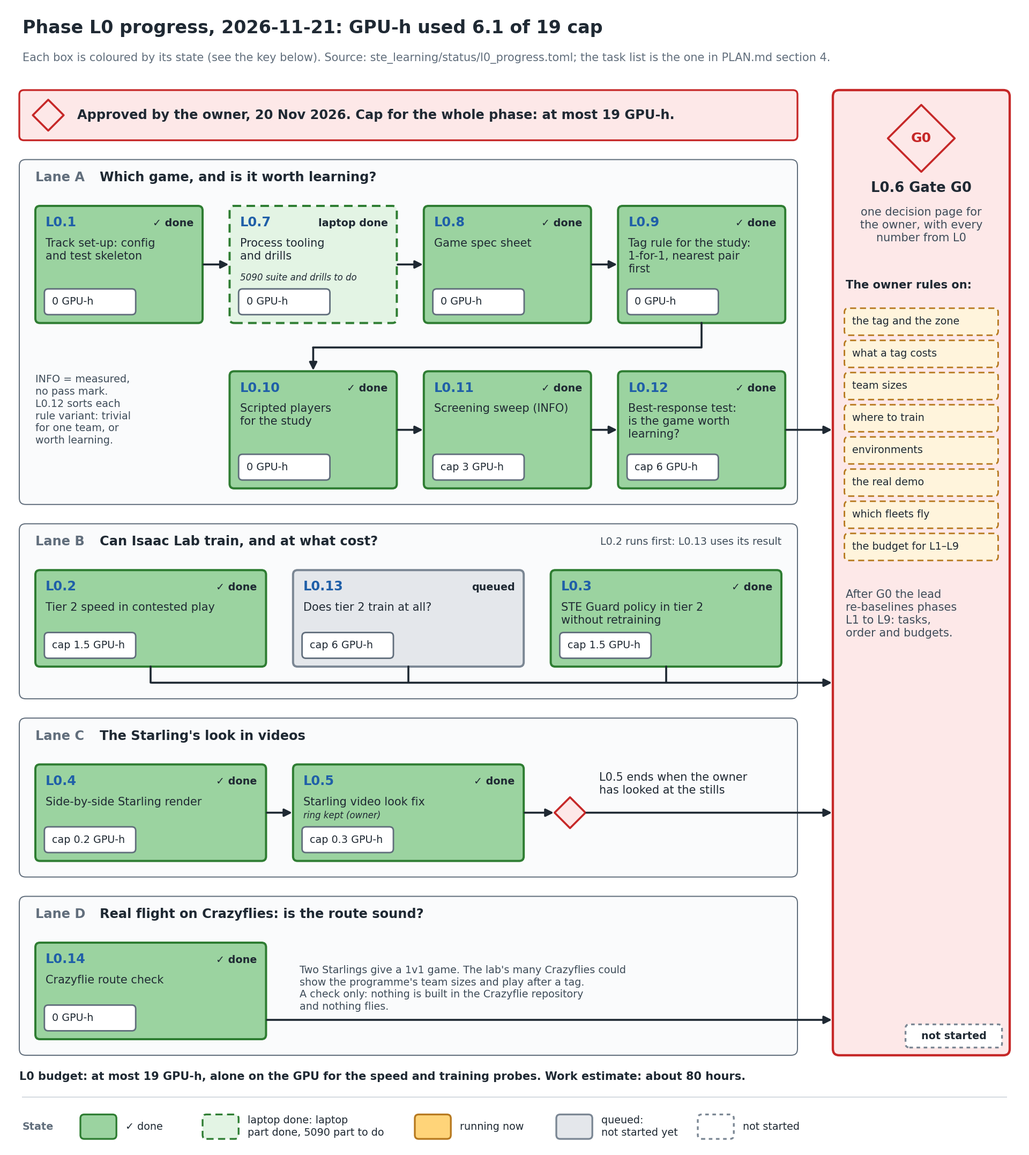
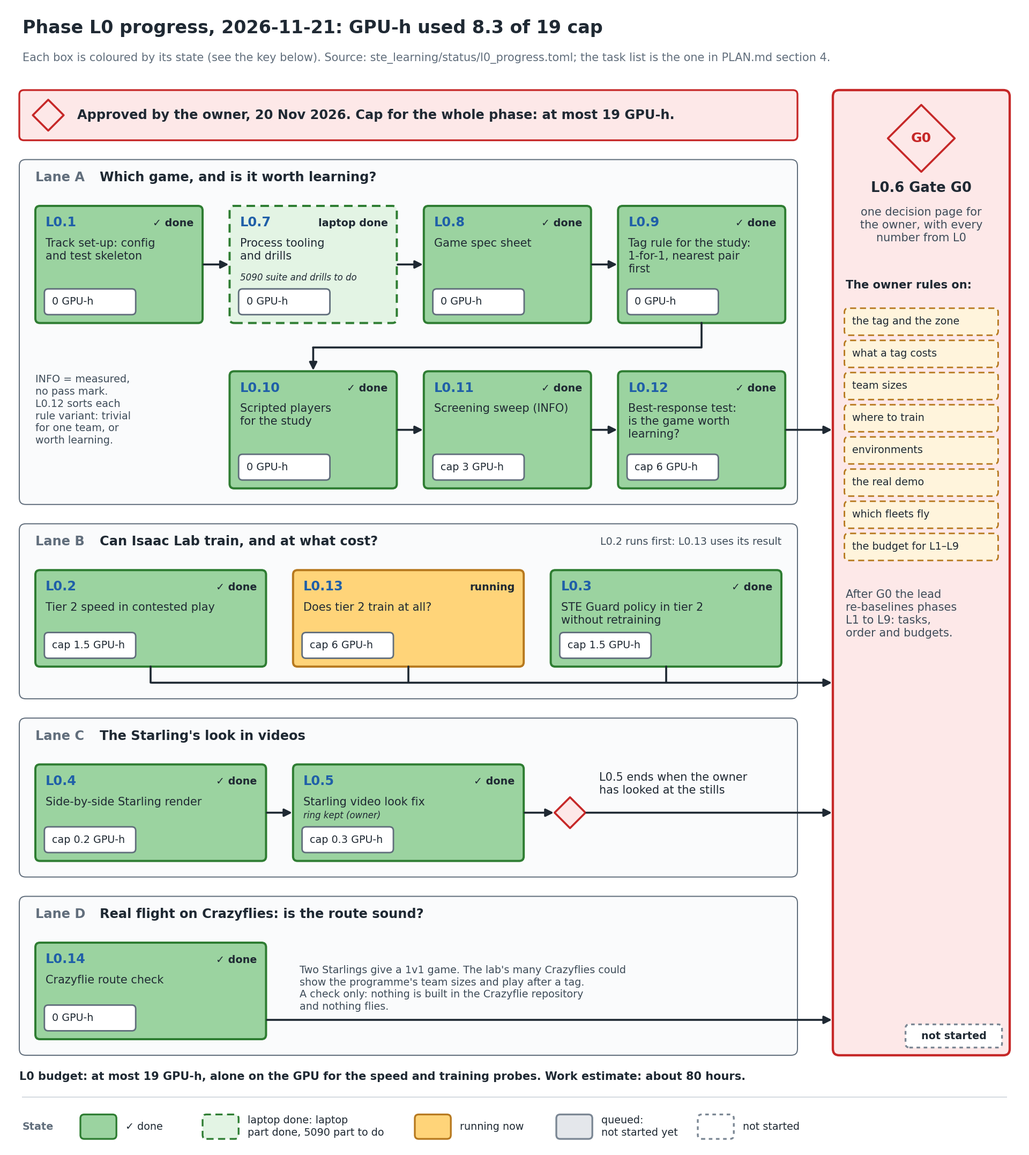
svg_training status: bubble-tag test done; L0.13 runs of record started

Changed region(s): [[0.2812, 0.4666, 0.5312, 0.591]]

diff --git a/svg_training/ste_learning/status/LOG.md b/svg_training/ste_learning/status/LOG.md
@@ -10197,3 +10197,166 @@ Laptop drills (21 Nov, fix branch, shared folder `~/AirStack-starling-max2/svg_t
 **Waiting on you.** One question (not urgent, by Sunday): **re-run the 1.15 m Strike run with a longer time cap?** It needs run 0 again at the same cap: about 1.1 GPU-h more, beyond the ~1.3 you approved (the test has used ~1.9 by tonight). My recommendation: **no** — the Strike reach rate was flat at ~11–13 % for the last 45 updates, the same waiting-out-the-clock play as at 1.2 m, so two more updates would not change the reading; G0 can use the ABORTED run as information. At G0: tag rule, varied tag distance, tag cost, zone size, team sizes, where to train, the real demo, the physical-intercept study, the L1–L9 budget.
 
 **Correction.** The 21 Nov question on NUS values listed "speeds 0.6 / 1.2". The L0.8 review reads those two numbers as the decision period (0.6 s) and the flight height (1.2 m); the speeds are 0.5 and 0.333 m/s. Your Yes covers all of them as written on the sheet.
+
+## 2026-11-21 17:29
+
+**Status, 2026-11-21 17:30 (+08:00), 30-minute update: bubble-tag runs done (1.15 m behaves like 1.2 m); L0.13 runs of record started** · laptop RTX 5070 Ti · GPU: L0.13 t1 · 1 job
+
+**Plain summary (L0.12b bubble tag, 1.15 m).** Tested: is "touch the safety bubble" (tag at 1.15 m) a game worth learning?
+Happened (training simulator): the scripts alone make it a two-sided game (best Guard holds 645, best Strike reaches 355,
+the same as 1.2 m), and almost every tag is chosen by the players, not made by the filter (0–10 %); but training did not beat
+the scripts — the trained Guard held 466 v 645, and the trained Strikes hid until the clock ran out (run ABORTED by its time
+rule, information only). Why it matters: across 1.6 / 1.4 / 1.2 / 1.15 m, training beats the scripts only at 1.4 m and wider —
+1.4 m is the closest tag where learning clearly pays off (input to your G0 tag decision).
+
+**Your decisions today (recorded):** D9 ring kept as the team marker; no re-run of the tag 1.2 m Strike run; **test the
+"touch the safety bubble" tag at 1.15 m** (about 1.3 GPU-h beyond L0.12's 6, approved); real demo = proximity tag, physical
+interdiction shown in simulation (a proposal for G0).
+
+### Watch (latest clips and figures)
+
+**L0.12 — can a trained team beat the best hand-written one?** Filled dot = trained, hollow = best script, x = untrained:
+
+![](../../docs/figures/ste_l012/best_response.png)
+
+| Trained Strikes v the best scripted Guard (base): climb, trade two, the last one slips in | Trained Guards v the straight Strike (base) |
+|---|---|
+| ![](../../docs/media/ste_l012/base_trained_strike_game0_reach.gif) | ![](../../docs/media/ste_l012/base_trained_guard_game0_hold.gif) |
+
+**L0.3 — the fast-engine Guard (T41) on the Isaac Lab drone, no retraining** (856 v 831 holds; reaches for the parked control):
+
+![](../../docs/figures/ste_l03/transfer.png)
+
+**L0.2 — training speed, Isaac Lab v the fast engine:**
+
+![](../../docs/figures/ste_l02/speed.png)
+
+**The 3-D videos** (L0.11 games, Isaac Lab, ring = team): [base_reach_3d.gif](../../docs/media/ste_l011/3d/base_reach_3d.gif), [all](../../docs/media/ste_l011/3d/README.md).
+
+Where phase L0 is: green done, light green laptop part done, amber running, grey queued (state file
+`ste_learning/status/l0_progress.toml`, figure by `scripts/make_ste_learning_figures.py l0_progress`).
+
+![](../figures/l0_progress.png)
+
+Earlier: L0.11 top-down clips and the factor chart are in the [T44 record](../../records/2026-11-21_ste_l011_screen_record.md).
+
+### Phases
+
+| Phase | Status | Math library | Simulator | What |
+|---|---|---|---|---|
+| NUS port Phases 1–4 | DONE | JAX (NUS), PyTorch | NUS 2-D game (JAX), Copy of NUS 2-D game (PyTorch), tier 2 Isaac Lab | NUS's code installed, game and policies copied to PyTorch, six tests towards STE drones |
+| NUS port Phase 5 | PAUSED (lead call D8) | PyTorch | Copy of NUS 2-D game (PyTorch), tier 1 fast engine | 5.1 Method match FAIL (T43); STE Guard policy 829 of 1,000 (T41) |
+| NUS port Phase 6 | DONE | none | none | public documents with videos |
+| ▶ L0 Game definition and feasibility | RUNNING (approved 20 Nov, cap 19 GPU-h) | PyTorch | tier 1 fast engine, tier 2 Isaac Lab | which game, worth learning, can tier 2 train, is the Crazyflie route sound |
+| L1–L8 | NOT STARTED | PyTorch | as ruled at gate G0 | drone model, rules, learner, evaluation, league, export, AirStack side, real flight |
+| L9 Documentation | RUNNING | none | none | status, records, results page |
+
+### Phase L0 Game definition and feasibility, task by task
+
+| ID | Plain name | Status | Simulator | Result / ETA |
+|---|---|---|---|---|
+| L0.1 | Track set-up: config and test skeleton | DONE | none | settings file, loader, tests; independent QC closed all findings |
+| L0.7 | Process tooling and drills | RUNNING (laptop part DONE) | none | merged into `development`; laptop: full suite 1,420 passed / 0 failed, wake-up drill and resume drill both as expected (below); DONE when the 5090 has run the same (L07-5090) |
+| L0.8 | Game spec sheet | DONE | none | merged into `development`; QC passed; full suite on `development` 1,461 passed / 0 failed (41 min) |
+| L0.9 | Tag rule for the study: 1-for-1, nearest pair first | DONE | tier 1 fast engine | merged; QC + re-check passed; full suite on `development` 1,517 passed / 0 failed (31 min); the 5090 records its own tag-off positions (L09-5090) |
+| L0.10 | Scripted players for the study | DONE | tier 1 fast engine | merged; QC + 2 re-checks passed; full suite on `development` 1,600 passed / 0 failed (56 min, CPU shared with the L0.11 GPU jobs) |
+| L0.11 | Screening sweep (INFO) | DONE | tier 1 fast engine | record T44 (every control PASS; shortlist base (reference), tag 1.2 m, tag 1.4 m; every hold a one-for-one trade) + follow-up checks; merged into `development`; full suite 1,685 passed / 0 failed (27 min) |
+| L0.12 | Best-response test: is the game worth learning? | DONE, merged (T46 INFO, T47 ABORTED; full suite 1,838 passed, its 6 failures fixed before merge) | tier 1 fast engine | pilot PASS; run 0 PASS; **base: worth learning** (Guard 913 v 808, Strike 636 v 192); **tag 1.4 m: worth learning** (Guard 747 v 672, Strike 740 v 328); **tag 1.2 m: incomplete** (Guard 503 v script 645; Strike ABORTED, 87/88 updates, trained Strikes wait out the clock); every control PASS; 3.86 GPU-h of 6; record T46 (verdict) + T47 (aborted run) being written; 3-D clips of the key games need VID-1b (the 3-D tool replays scripted players only) |
+| L0.2 | Tier 2 speed in contested play | DONE (T48, merged) | tier 2 Isaac Lab | every control PASS; Isaac Lab 3v3: 10 k → 67 k training game-steps/s (1,024 → 16,384 games, 4.7 GB); the fast engine is 4–10× faster per game-step (5× at 3v3); 0.29 GPU-h (+0.10 smokes) |
+| L0.13 | Does tier 2 train at all? | RUNNING (runs of record) | tier 2 Isaac Lab | smoke: every control PASS; physics check at 16,384 games 0.0166 m (limit 0.02); Isaac Lab 70 k game-steps/s, time margin +2,811 s; now the fast-engine arm (update 20 of 48; its curve reads climbing 145 → 176 of 256 holds), then the Isaac Lab arm (~1.3 h); verdict ~19:30 |
+| L0.3 | STE Guard policy in tier 2 without retraining | DONE (T49, merged) | tier 2 Isaac Lab | every control PASS; T41 holds 856/1000 on Isaac Lab v 831 fast engine (paired: 76 gained, 51 lost, sign test p = 0.033; higher in this set, no general claim); 1.24 GPU-h |
+| L0.4 | Side-by-side Starling render | DONE | tier 2 Isaac Lab | found why our clips never looked like the Starling: a grey physics box was drawn over every drone since S2b (the hide call missed it); one-line fix, re-render shows the Starling (before/after in Watch); merged into `development` after independent review; 0.028 of 0.2 GPU-h |
+| L0.5 | Starling video look fix | WAITING ON YOU (D9) | tier 2 Isaac Lab | the drone left unpainted, team shown by a ring or a small dot that casts no shadow; stills in Watch; 0.154 of 0.3 GPU-h (with VID-1) |
+| L0.14 | Crazyflie route check | DONE | tier 1 fast engine (CPU) | record T45: the T41 Guard policy holds 791–768 of 1,000 in the Crazyflie-like lag band (0.48–0.56 s, every drone slowed) against 831 at the Starling's lag, and drones come closer (games under 1.0 m: 7 → 101–149); planner, like for like: 0 of 100 at 3v3 and 5v3 against 20 Nov's 5 of 100 (not a clear difference; only one rule set run); QC + re-check passed; merged into `development` (targeted tests 76 passed; the full suite runs with the next merge — lead's call, the CPU is shared now); page `ste_learning/CRAZYFLIE_ROUTE.md` |
+| L0.6 | Gate G0 | NOT STARTED | none | after every task above; the owner decides |
+
+GPU-h used in L0 so far: about 8.3 of 19 (L0.11 0.43, L0.4 0.03, L0.5 + VID-1 0.15, L0.2 0.39, L0.3 1.28, L0.12 3.86, L0.12b 1.95, L0.13 smoke 0.06); L0.13 runs in progress (~2 more).
+
+Laptop full CPU suite (20 Nov, `development` at 5c5d465, after `scripts/nus_install_provisional.sh`): **1,333 passed, 2 failed, 48 skipped** in 24 min. Both failures repeat when run alone:
+- **L07-F1** `test_ste_job.py::test_f_d_a_killed_job…resumes`: CONFIRMED by QC: the tool does not over-report (it measures from the same start; ~0.255 s raw, printed rounded to 0.3); the test compares the rounded text with the exact elapsed time. Fix: allow half a display step.
+- **TEST-F2** `test_train_standin.py::test_default_path_bit_identical_after_the_nus_hooks`: FIXED (447b317). Measured on the laptop: the hash repeats (75d2a955…), hold rates equal the recorded [0.25, 0.375], and forcing PyTorch's CPU capability down changes the hash; threads (trainer runs one) and local files (not read on this path) ruled out. The fingerprint is now one hash per CPU capability; hold rates are checked on every machine.
+
+### Usage (laptop session, 20 Nov 22:00 to now)
+
+| What | Agent tokens | Wall time | Note |
+|---|---|---|---|
+| L0.7 fixes: builder, 7 fixes one at a time | ~400 k | ~51 min | the largest: each fix re-reads the tooling and its tests |
+| L0.8 Game spec sheet: builder, build + 2 fix rounds | ~320 k | ~50 min | includes its own 25-min full suite |
+| L0.7 independent QC + re-check | ~246 k | ~18 min | reproduced C1 and I1 in a scratch folder |
+| L0.8 independent QC + re-check | ~209 k | ~12 min | mutation tests on the sheet |
+| L0.9 Tag rule: builder (build + fix round) | ~358 k | ~66 min | the first 50 min slowed by sharing the CPU with the L0.7 suite |
+| L0.9 independent QC + re-check | ~239 k | ~31 min | ran its own reference matcher, mutants and old-vs-new games |
+| L0.10 Scripted players: builder (build + rulings + 2 QC fix rounds) | ~420 k | ~56 min | |
+| L0.10 independent QC (+ 2 re-checks) | ~353 k | ~71 min | 84 deliberate breakages over two rounds; its own geometry probes on 30,000+ starts |
+| L0.11 sweep build (CPU, build + rulings + rebase + QC fixes + follow-ups) | ~677 k | ~106 min | the largest single task so far; a fresh builder takes L0.12 to avoid re-reading this context |
+| L0.12 groundwork builder | ~550 k | ~54 min | |
+| L0.12 pre-launch QC | ~322 k | ~48 min | 19 deliberate breakages, 8 not caught before the fixes |
+| L0.14 builder | ~368 k | ~118 min | the Crazyflie planner sweep ran on the CPU (2,868 matches) |
+| L0.11 pre-launch QC | ~293 k | ~24 min | broke the code five ways through the real driver |
+| L0.11 CUDA smoke | | ~5 min | 0.087 GPU-h |
+| L0.11 independent QC (pre-launch, re-check, results read) | ~419 k | ~45 min | |
+| L0.11 sweep | | 18 min | 0.305 GPU-h (L0.11 total 0.426 of 3.0) |
+| L0.4 + L0.5 + VID-1 builder (stills, box bug, replay check, 3-D renderer) | ~410 k | ~3 h incl. the 08:30 limit stop | 0.141 GPU-h; the account hit its 5-hour token limit at about 07:30 (three agents at once); resumed 08:44 |
+| L0.12 gate fix + follow-up builder | ~280 k | ~55 min | run 0 design, N-2/N-4, tests |
+| L0.12 QC re-checks 1–2 | ~450 k | ~30 min | 8 breakages tried on run 0 |
+| L0.2/L0.3 builder | ~410 k | ~30 min | + fix round now |
+| L0.2/L0.3 pre-launch QC + 2 re-checks | ~650 k | ~60 min | 39 + 6 breakages tried |
+| L0.12b bubble-tag build + 2 fix rounds | ~490 k | ~95 min | |
+| L0.12b QC + re-checks | ~210 k | ~40 min | |
+| L0.13 build + QC (+ fix round now) | ~650 k + | ~60 min | |
+| L0.2/L0.3 fix rounds 1-2 | ~1.1 M | ~41 min | **the costliest task today**: each round re-reads the code; narrow rounds from here |
+| L0.12 GPU pilot | | 11 min | 0.178 GPU-h |
+| L0.11 GPU pilot | | 2 min | 0.034 GPU-h (first GPU job of the track) |
+| Full CPU test suite | none | ~25 min alone; the L0.7 merge run took 61 min (shared the CPU with L0.9's tests) | rule from now: one heavy test run at a time |
+| GPU | 0 GPU-h | | nothing has used the GPU |
+
+Sub-agents total about 1.2 M tokens so far; the lead's own context is not measured by the tools here.
+
+Laptop drills (21 Nov, fix branch, shared folder `~/AirStack-starling-max2/svg_training/runs/shared/`, no owner pause open):
+- Wake-up: `L0.7 l07_wakeup DONE exit=0 duration=120.4s effective=120.4s`, `waiter exit 0` (the background waiter's end was the wake-up).
+- Resume: `alive` → simulated power cut (`kill -KILL` of the process group at step 30) → `dead`; waiter `DIED exit=none duration=31.2s`, `waiter exit 21`; relaunch with `bash cmd.txt` from a shell with a wrong `PYTHONPATH` and `SVG_SHARED_DIR` → `launch=2`, `resumed from step 30 of 120`, `DONE exit=0 duration=90.4s effective=90.4s run_effective=120.3s`, `waiter exit 0`, `{"steps": 120, "total": 7260.0}`; the wrong shared folder was never created.
+
+### Other workstreams
+
+| ID | Plain name | Status |
+|---|---|---|
+| L012-B | Bubble-tag test (tag 1.15 m; owner approved 21 Nov) | DONE (records being written) | screen: best scripts 645 / 355 (same as 1.2 m), filter-pushed tags 0–10 %; run 0 PASS (909 v bar 849); trained Guard 466 v script 645 (weak); trained Strike ABORTED (time rule, 86/88; info: 103 v 355, waits out the clock); verdict incomplete (one side); ~1.95 GPU-h |
+| VID-1c | Re-draw the L0.2 and L0.3 2-D clips with the height panel (the standing rule; those drivers used the older clip drawer) | QUEUED (CPU) | from the saved run data |
+| SYNC-1 | Branch `development` on both machines; laptop worktree `~/AirStack-starling-max2-dev` | DONE |
+| SYNC-2 | Status skill `train-status` and the owner's standing rules in CLAUDE.md | DONE |
+| SYNC-3 | Root `CLAUDE.md` and every page: training work lands on `development` | DONE |
+| SYNC-4 | STE Guard policy (T41 run folder) in the PROVISIONAL bundle | DONE; installed on the laptop (46 files, agent.pt c91bea51…) |
+| L07-F1 | Fix: waiter-duration test bound (rounding) (QC I5) | DONE (a4100d0; 30 of 30 runs pass; L0.7 test files 217 passed) |
+| L07-C1 | Fix: an open pause takes time off every job, and launch does not check for one: a job launched during a pause runs on the GPU with 0 GPU-h counted and its cap never fires | DONE (79effa0 on branch ste-l0.7-fix; red 48 failed, then L0.7 + NUS pause tests 251 passed). Pauses still always logged; launch refuses while one is open; a pause counts only against the jobs it stopped |
+| L07-I1 | Fix: a new run reusing an old job name inherits that job's GPU-hours as credit (task cap can be exceeded) | DONE (05dd547; credit keyed by job name + run folder; red 24 failed, then 256 passed) |
+| L07-I2 | Fix: `cmd.txt` relaunch loses the environment (PYTHONPATH, CUDA alloc setting, shared-folder path) | DONE (d0661f4; cmd.txt replays the first launch's environment; a different shared folder is refused; resume drill uses bash cmd.txt; red 3 failed, then 259 passed) |
+| L07-I3 | Fix: the launcher's wrapper can die (clock step back, full disk) while the job runs on: GPU time stops being logged | DONE (1ca8a70; every wrapper write survives an error, records a fault and retries; red 8 failed, then 267 passed) |
+| L07-I4 | Fix: a job resumed after a reboot is flagged ENDED_EARLY (exit 20) though it finished correctly | DONE (70fc1a3; judged on the trainer's saved progress across launches; red: drill pattern read 20; then 280 passed) |
+| L08-F1 | Finding: the hangar's Strike start ring (3.2 m from the zone centre) does not fit the 6.5 m lab arena (drones kept within 3.0 m); a ring for 6.5 m is needed before L0.11's base case | CLOSED (lead's call): Strike start ring 2.75 m for the 6.5 m arena, PROPOSED, ruled at G0 |
+| L07-C1b | Fix: our own "pause the siblings, run solo" step (AUTOMATION §2.2) is now refused too; lead's design: pauses the session makes are tagged and do not block launch, your pauses still do | DONE (ef38534; `GPU_PAUSE_BY=lead` tags the session's pauses; a bare `gpu_pause.sh pause` is still yours and still blocks; red 13 failed, then 298 passed) |
+| L07-C1c | Fix: a session-tagged resume must refuse while any of your pauses is open (a resume today continues every job and closes your pauses too) | DONE (efa9ec1; a bare resume/stop is unchanged; red 4 failed, then 304 passed) |
+| GIT-1 | Fix: my 17 Nov `.gitignore` line `data/` also hid new files in `tests/data/` | DONE (d3572dc: anchored to `/data/`) |
+| L011-F1 | Finding: scripted players decide every 0.05 s tick, not at the sheet's 0.6 s decision period; the sweep measures scripted play at 0.05 s; L0.12's trainers must set their decision period explicitly (T41 used 0.6 s) | OPEN: written into the L0.11 gate file and record |
+| L07-SUSPEND | Tooling: a laptop sleep during a GPU job is counted as GPU-hours and as time towards the job's cap (wall clock). Rule until fixed: never let the laptop sleep during a GPU job | QUEUED (tooling task); rule in force now |
+| L011-G0 | Finding for gate G0 (T44, scripted play): (1) every hold is a one-for-one trade — no tag-on game times out, and at 1v1 and 3v3 a Guard win leaves no Guard — so head-count decides (PLAN F1; bears on what a tag costs, P12); (2) the programme's sizes 2v1 and 5v3, and 1v1, are Guard-trivial with scripted players at the proposed rules; candidate cause: tag radius 1.6 m = zone radius 1.6 m with Guards starting on a circle near the zone centre (not tested). L0.12 measures whether learning changes either | OPEN: reported at G0 |
+| L010-G0 | Finding for gate G0 (from L0.10 QC): any safety-filter move near the 1.6 m tag radius can create a tag nobody chose (the filter's 1.10 m keep-out is inside the tag radius). Spaced starts remove it at the start; during play it is part of the game the sweep measures (P1) | OPEN: reported at G0 |
+| L09-5090 | On the 5090: record the tag-off golden's positions for its CPU type (AVX512); check the outcome fingerprints there | WAITING: next 5090 session |
+| DOC-1 | A phase-L0 flowchart coloured by progress (done / running / queued), regenerated with each status and shown in its Watch section (owner, 21 Nov: "photos or diagram flow charts would be good too") | DONE (progress flowchart; regenerated with each status) |
+| VID-1 | Clips: a height panel on the 2-D top-down clips of every run; 3-D Isaac Lab videos (Starling look, top view + 3-D view, MP4 + GIF) of each result's key games | L0.11 DONE, merged: 6 key games (base, tag 1.2 m, tag 1.4 m × hold, reach) × top + 3-D, MP4 + GIF; every replayed game checked equal to T44 (90,000 of 90,000) before drawing; independent review: 1 important bug (old files could be drawn after a failed check; never happened) + minors, fixed and re-reviewed; the published games re-checked with the stricter check: identical; full suite on the merge 1,751 passed (the 2 failures it found are fixed: an unlisted Crazyflie import from L0.14, and my progress-chart test reading the live file); next: L0.12 results |
+| L08-M | L0.8 minors left: 3 hangar values unchecked on a clone without the NUS bundle; 3 values whose wrong value still passes; loader refuses some honest wording; tests tied to exact lines and the AirStack fence file | PARKED |
+| L07-DISK | Follow-up: the planned disk-space check (a disk full through 10 retries at a job's end reads DIED) | PARKED (stated limit) |
+| L07-N | Re-check minors N1–N4: a session pause also lands in the old per-worktree log the NUS reader uses; full disk can hold the wrapper 10 min after the end; AUTOMATION §4 still states the old GPU-hour rule; on the 5090 run `scripts/ste_job.py owner-pauses` before the drills | PARKED (N4 goes into the 5090 note) |
+| L07-M | QC's 10 minor findings (+3 from the C1 build: pid-only matching, test pause pattern shared across sessions, pid reuse) (runs/ste_l07/qc_report.md) | PARKED until the six fixes land |
+| L07-5090 | L0.7 on the 5090: full CPU suite and the two drills there (L0.7 is DONE only after both machines) | WAITING: next 5090 session |
+| TEST-F2 | Fix: bit-level training fingerprint is machine-specific | DONE (447b317; trainer test file 43 passed, 1 skipped) |
+| TEST-F2b | On the 5090: confirm its CPU capability is AVX512 (the key its 18 Nov hash is now filed under) | WAITING: next 5090 session runs the test (fails or skips loudly if wrong) |
+
+**Machines (owner, 21 Nov):** no task is 5090-only. The RTX 5090 (32 GB) suits memory-heavy runs; the laptop RTX 5070 Ti (12 GB) runs everything sized to fit, and the record says which machine. Only machine checks stay with their machine: TEST-F2b, L07-5090, L09-5090. **Schedule:** weekends the laptop runs the pipeline (the 5090 is free for gaming); weekdays the 5090 does (the laptop goes to work). **This weekend:** the owner packs the laptop **Mon 23 Nov 10:00**: no GPU job starts unless it can end by **Mon 08:00**; by **09:30** everything is committed, HANDOFF §0 and status written, ready to push.
+
+**GPU queue on the laptop (one at a time for speed measurements):** L0.12 pilot → L0.12 trainings → L0.2 → L0.3 → L0.13 (L0.4, L0.5, VID-1 for L0.11 done).
+
+**Next.** (1) L0.3 (running). (2) Merge L0.12 (suite running), L0.2 record. (3) Bubble-tag test at 1.15 m: rules written first, scripted screen, then a trained Guard and Strike (~1.3 GPU-h, this evening). (4) L0.13 overnight (≤ 6 GPU-h). (5) 3-D clips of trained players with a visible tag circle (VID-1b). (6) The G0 page, Sunday. Hard stop: GPU jobs end Mon 08:00, wrap-up 09:30.
+
+**Waiting on you.** One question (not urgent, by Sunday): **re-run the 1.15 m Strike run with a longer time cap?** It needs run 0 again at the same cap: about 1.1 GPU-h more, beyond the ~1.3 you approved (the test has used ~1.9 by tonight). My recommendation: **no** — the Strike reach rate was flat at ~11–13 % for the last 45 updates, the same waiting-out-the-clock play as at 1.2 m, so two more updates would not change the reading; G0 can use the ABORTED run as information. At G0: tag rule, varied tag distance, tag cost, zone size, team sizes, where to train, the real demo, the physical-intercept study, the L1–L9 budget.
+
+**Correction.** The 21 Nov question on NUS values listed "speeds 0.6 / 1.2". The L0.8 review reads those two numbers as the decision period (0.6 s) and the flight height (1.2 m); the speeds are 0.5 and 0.333 m/s. Your Yes covers all of them as written on the sheet.

diff --git a/svg_training/ste_learning/status/STATUS_LATEST.md b/svg_training/ste_learning/status/STATUS_LATEST.md
@@ -1,12 +1,13 @@
 INTERNAL · the latest status of STE's own learning track and the NUS port, overwritten at every update; the history is in [LOG.md](LOG.md). Produced by the `train-status` skill.
 
-**Status, 2026-11-21 17:00 (+08:00), 30-minute update: bubble-tag Strike run ABORTED by its time rule again (86 of 88 updates); Guard run training; L0.13 QC GO** · laptop RTX 5070 Ti · GPU: L0.12b Guard run · 1 job
+**Status, 2026-11-21 17:30 (+08:00), 30-minute update: bubble-tag runs done (1.15 m behaves like 1.2 m); L0.13 runs of record started** · laptop RTX 5070 Ti · GPU: L0.13 t1 · 1 job
 
-**Plain summary (L0.3 Guard policy on the Isaac Lab drone).** Tested: does the Guard policy trained in the fast engine
-(T41) still work on the more realistic Isaac Lab drone, without retraining? Happened: every control PASS; it holds **856 of
-1,000** on the Isaac Lab drone v 831 in the fast engine, same starts (higher in this set; not a general claim). Why it matters:
-a policy trained in the fast engine carries over to the drone model closer to the real one — the fast engine is a fair place
-to train. Clips: `docs/media/ste_l03/` (on its branch until merge).
+**Plain summary (L0.12b bubble tag, 1.15 m).** Tested: is "touch the safety bubble" (tag at 1.15 m) a game worth learning?
+Happened (training simulator): the scripts alone make it a two-sided game (best Guard holds 645, best Strike reaches 355,
+the same as 1.2 m), and almost every tag is chosen by the players, not made by the filter (0–10 %); but training did not beat
+the scripts — the trained Guard held 466 v 645, and the trained Strikes hid until the clock ran out (run ABORTED by its time
+rule, information only). Why it matters: across 1.6 / 1.4 / 1.2 / 1.15 m, training beats the scripts only at 1.4 m and wider —
+1.4 m is the closest tag where learning clearly pays off (input to your G0 tag decision).
 
 **Your decisions today (recorded):** D9 ring kept as the team marker; no re-run of the tag 1.2 m Strike run; **test the
 "touch the safety bubble" tag at 1.15 m** (about 1.3 GPU-h beyond L0.12's 6, approved); real demo = proximity tag, physical
@@ -62,14 +63,14 @@ Earlier: L0.11 top-down clips and the factor chart are in the [T44 record](../..
 | L0.11 | Screening sweep (INFO) | DONE | tier 1 fast engine | record T44 (every control PASS; shortlist base (reference), tag 1.2 m, tag 1.4 m; every hold a one-for-one trade) + follow-up checks; merged into `development`; full suite 1,685 passed / 0 failed (27 min) |
 | L0.12 | Best-response test: is the game worth learning? | DONE, merged (T46 INFO, T47 ABORTED; full suite 1,838 passed, its 6 failures fixed before merge) | tier 1 fast engine | pilot PASS; run 0 PASS; **base: worth learning** (Guard 913 v 808, Strike 636 v 192); **tag 1.4 m: worth learning** (Guard 747 v 672, Strike 740 v 328); **tag 1.2 m: incomplete** (Guard 503 v script 645; Strike ABORTED, 87/88 updates, trained Strikes wait out the clock); every control PASS; 3.86 GPU-h of 6; record T46 (verdict) + T47 (aborted run) being written; 3-D clips of the key games need VID-1b (the 3-D tool replays scripted players only) |
 | L0.2 | Tier 2 speed in contested play | DONE (T48, merged) | tier 2 Isaac Lab | every control PASS; Isaac Lab 3v3: 10 k → 67 k training game-steps/s (1,024 → 16,384 games, 4.7 GB); the fast engine is 4–10× faster per game-step (5× at 3v3); 0.29 GPU-h (+0.10 smokes) |
-| L0.13 | Does tier 2 train at all? | READY (QC GO) | tier 2 Isaac Lab | fix round: tumbles and physics errors counted/gated, each score tagged with where it ran, smoke labelled SMOKE; QC re-check: 40 of 44 deliberate breakages caught (4 survivors are test gaps checkable from the run's own files); smoke after the bubble-tag Guard run, then the runs overnight |
+| L0.13 | Does tier 2 train at all? | RUNNING (runs of record) | tier 2 Isaac Lab | smoke: every control PASS; physics check at 16,384 games 0.0166 m (limit 0.02); Isaac Lab 70 k game-steps/s, time margin +2,811 s; now the fast-engine arm (update 20 of 48; its curve reads climbing 145 → 176 of 256 holds), then the Isaac Lab arm (~1.3 h); verdict ~19:30 |
 | L0.3 | STE Guard policy in tier 2 without retraining | DONE (T49, merged) | tier 2 Isaac Lab | every control PASS; T41 holds 856/1000 on Isaac Lab v 831 fast engine (paired: 76 gained, 51 lost, sign test p = 0.033; higher in this set, no general claim); 1.24 GPU-h |
 | L0.4 | Side-by-side Starling render | DONE | tier 2 Isaac Lab | found why our clips never looked like the Starling: a grey physics box was drawn over every drone since S2b (the hide call missed it); one-line fix, re-render shows the Starling (before/after in Watch); merged into `development` after independent review; 0.028 of 0.2 GPU-h |
 | L0.5 | Starling video look fix | WAITING ON YOU (D9) | tier 2 Isaac Lab | the drone left unpainted, team shown by a ring or a small dot that casts no shadow; stills in Watch; 0.154 of 0.3 GPU-h (with VID-1) |
 | L0.14 | Crazyflie route check | DONE | tier 1 fast engine (CPU) | record T45: the T41 Guard policy holds 791–768 of 1,000 in the Crazyflie-like lag band (0.48–0.56 s, every drone slowed) against 831 at the Starling's lag, and drones come closer (games under 1.0 m: 7 → 101–149); planner, like for like: 0 of 100 at 3v3 and 5v3 against 20 Nov's 5 of 100 (not a clear difference; only one rule set run); QC + re-check passed; merged into `development` (targeted tests 76 passed; the full suite runs with the next merge — lead's call, the CPU is shared now); page `ste_learning/CRAZYFLIE_ROUTE.md` |
 | L0.6 | Gate G0 | NOT STARTED | none | after every task above; the owner decides |
 
-GPU-h used in L0 so far: about 6.1 of 19 (L0.11 0.43, L0.4 0.03, L0.5 + VID-1 0.15, L0.2 0.39, L0.3 1.28, L0.12 3.86). Expected at the end of L0: about 10–11.
+GPU-h used in L0 so far: about 8.3 of 19 (L0.11 0.43, L0.4 0.03, L0.5 + VID-1 0.15, L0.2 0.39, L0.3 1.28, L0.12 3.86, L0.12b 1.95, L0.13 smoke 0.06); L0.13 runs in progress (~2 more).
 
 Laptop full CPU suite (20 Nov, `development` at 5c5d465, after `scripts/nus_install_provisional.sh`): **1,333 passed, 2 failed, 48 skipped** in 24 min. Both failures repeat when run alone:
 - **L07-F1** `test_ste_job.py::test_f_d_a_killed_job…resumes`: CONFIRMED by QC: the tool does not over-report (it measures from the same start; ~0.255 s raw, printed rounded to 0.3); the test compares the rounded text with the exact elapsed time. Fix: allow half a display step.
@@ -119,7 +120,7 @@ Laptop drills (21 Nov, fix branch, shared folder `~/AirStack-starling-max2/svg_t
 
 | ID | Plain name | Status |
 |---|---|---|
-| L012-B | Bubble-tag test (tag 1.15 m; owner approved 21 Nov) | RUNNING (Guard run) | screen DONE (best scripts 645 / 355, same as 1.2 m; filter-pushed tags 0–10 %); run 0 PASS (909 v bar 849); **trained Strike run ABORTED** by the pre-registered time rule at update 86 of 88 (649 s left v 664 s needed): training at 1.15 m ran ~20 % slower than the L0.12 timings the cap was sized on (the filter works harder), so my 0.85 h cap was still short. Information only: its Strikes again wait out the 120 s clock (103/1000 v the script's 355; training reach flat at ~11–13 % from update 41), as at 1.2 m. Guard run training now (~17:30) |
+| L012-B | Bubble-tag test (tag 1.15 m; owner approved 21 Nov) | DONE (records being written) | screen: best scripts 645 / 355 (same as 1.2 m), filter-pushed tags 0–10 %; run 0 PASS (909 v bar 849); trained Guard 466 v script 645 (weak); trained Strike ABORTED (time rule, 86/88; info: 103 v 355, waits out the clock); verdict incomplete (one side); ~1.95 GPU-h |
 | VID-1c | Re-draw the L0.2 and L0.3 2-D clips with the height panel (the standing rule; those drivers used the older clip drawer) | QUEUED (CPU) | from the saved run data |
 | SYNC-1 | Branch `development` on both machines; laptop worktree `~/AirStack-starling-max2-dev` | DONE |
 | SYNC-2 | Status skill `train-status` and the owner's standing rules in CLAUDE.md | DONE |
